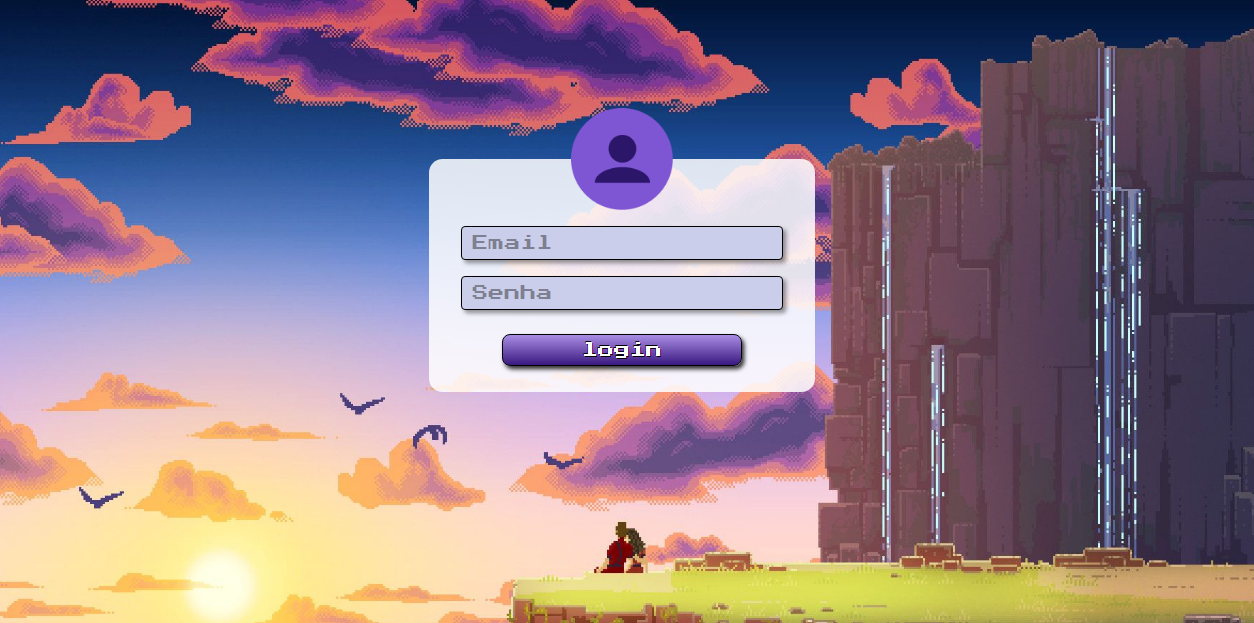
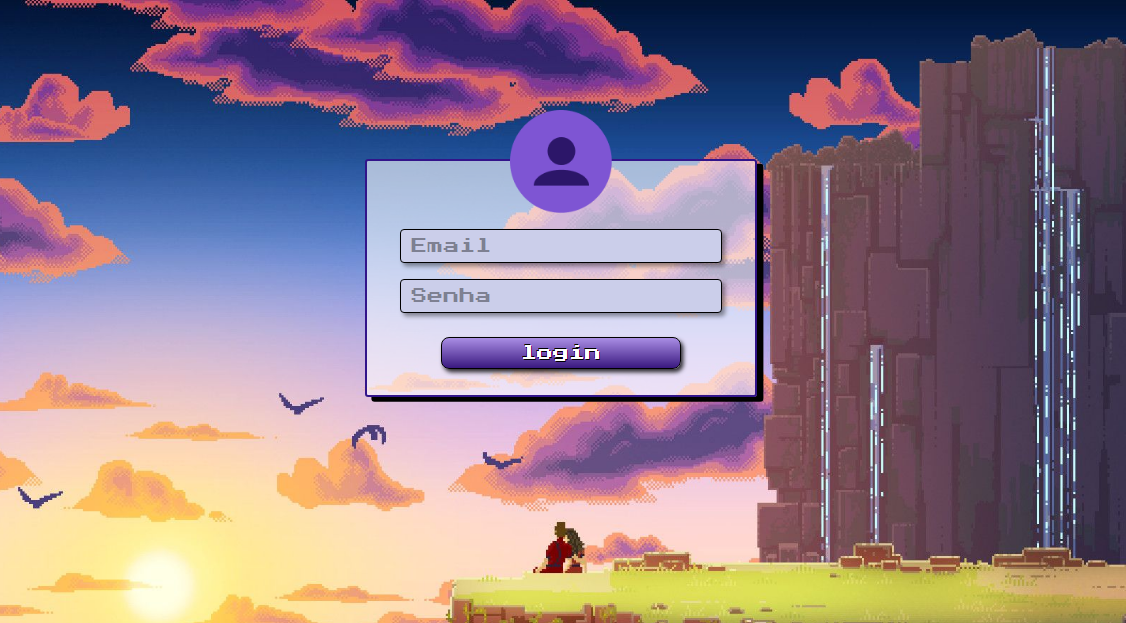
Atualização do formulario

diff --git a/css/style.css b/css/style.css
@@ -15,10 +15,12 @@ body {
 #container {
 	width: 483px;
 	height: 291px;
-	background: rgba(255, 255, 255, 0.85);
+	background: rgba(255, 255, 255, 0.60);
 	margin: 200px auto;
-	border-radius: 17px;
 	text-align: center;
+	box-shadow: 8px 6px #000 ;
+	border-radius: 4px;
+	border: 3px solid rgb(50, 20, 138);
 }
 
 #container img {
